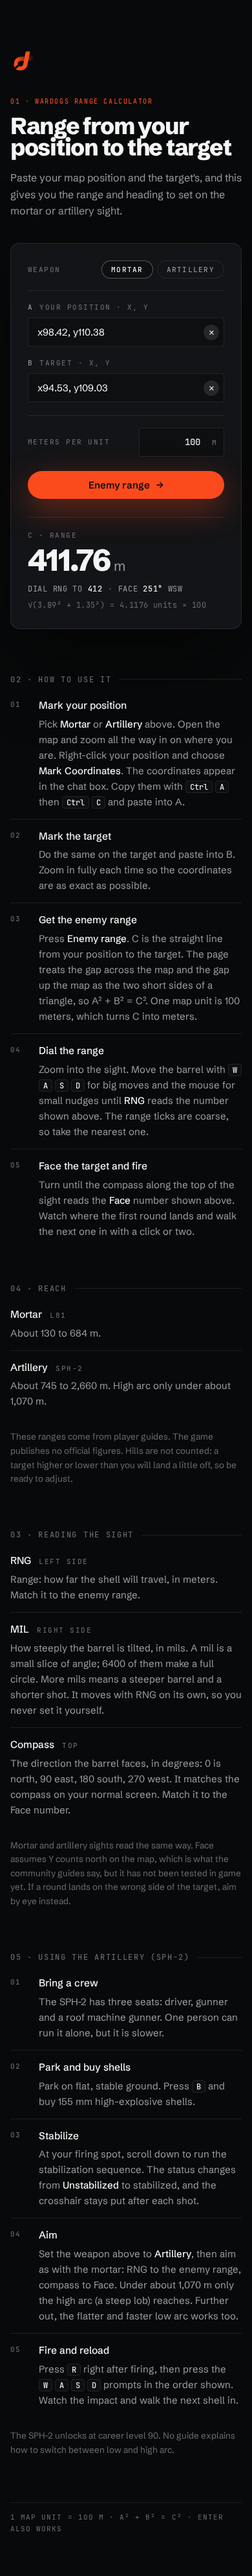
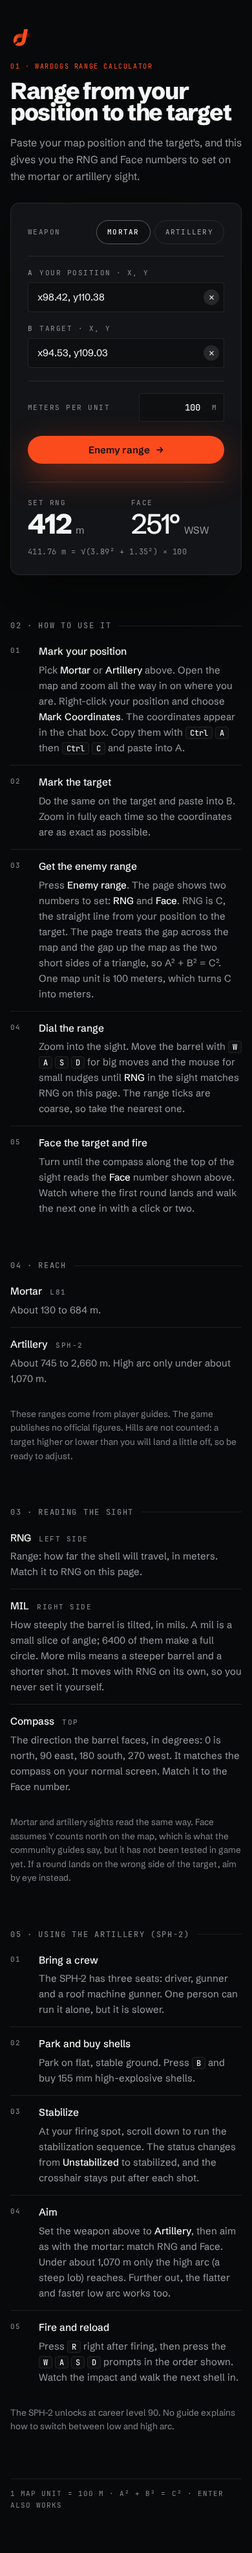
Readability pass: big RNG/Face readouts, contrast, PC layout
Result leads with the two numbers you set in game. Faint text passes
4.5:1. Title left / calculator right on wide screens so the result
stays on screen. Errors name the box and are linked for screen readers.

Claude-Session: https://claude.ai/code/session_01EgT5FX5KAE4dFoWsGCwVm8

diff --git a/index.html b/index.html
@@ -17,7 +17,9 @@
 
 :root {
   --jd-ink: #08090a; --jd-ink-2: #0e0f11; --jd-ink-3: #131417;
-  --jd-fg: #f4f5f4; --jd-muted: #9a9da3; --jd-muted-2: #696c72;
+  --jd-fg: #f4f5f4; --jd-muted: #9a9da3;
+  /* Design system says #696c72; lifted here so small text passes 4.5:1 contrast. */
+  --jd-muted-2: #83868c;
   --jd-accent: #fb4b1d; --jd-accent-press: #e23c12; --jd-on-accent: #08090a;
   --jd-line: rgba(255, 255, 255, 0.09);
   --jd-sans: "Schibsted Grotesk", system-ui, -apple-system, "Segoe UI", sans-serif;
@@ -30,18 +32,20 @@
 html, body { margin: 0; background: var(--jd-ink); color: var(--jd-fg); }
 body { font: 400 16px/1.6 var(--jd-sans); -webkit-font-smoothing: antialiased; }
 
-main { max-width: 1040px; margin: 0 auto; padding: clamp(40px, 9vh, 96px) 16px 64px; }
+main { max-width: 1040px; margin: 0 auto; padding: clamp(24px, 5vh, 56px) 16px 64px; }
 .head { max-width: 480px; margin: 0 auto; }
 .guides { display: grid; gap: 56px; margin-top: 72px; }
 .col { display: grid; gap: 56px; align-content: start; }
 @media (min-width: 960px) {
+  .head { max-width: none; display: grid; grid-template-columns: 1fr 1fr; gap: 0 72px; align-items: start; }
+  .intro { padding-top: 12px; }
   .guides { grid-template-columns: 1fr 1fr; gap: 0 72px; margin-top: 96px; }
 }
 
-.mark { display: block; width: 36px; height: 36px; margin-bottom: 40px; }
+.mark { display: block; width: 32px; height: 32px; margin-bottom: 24px; }
 .eyebrow { font: 500 10px/1 var(--jd-mono); letter-spacing: .16em; text-transform: uppercase; color: var(--jd-accent); margin: 0 0 16px; }
 h1 { font-weight: 800; font-size: clamp(36px, 9vw, 48px); line-height: .92; letter-spacing: -.035em; margin: 0 0 18px; text-wrap: balance; }
-.lede { color: var(--jd-muted); font-size: 16px; margin: 0 0 36px; max-width: 40ch; }
+.lede { color: var(--jd-muted); font-size: 16px; margin: 0 0 28px; max-width: 40ch; }
 
 .card { background: var(--jd-ink-3); border: 1px solid var(--jd-line); border-radius: 14px; padding: 26px; box-shadow: var(--jd-shadow-card); }
 
@@ -49,7 +53,7 @@ h1 { font-weight: 800; font-size: clamp(36px, 9vw, 48px); line-height: .92; lett
 .weapon { display: flex; align-items: center; justify-content: space-between; gap: 12px; padding-bottom: 18px; margin-bottom: 20px; border-bottom: 1px solid var(--jd-line); }
 .weapon .lbl { margin: 0; }
 .chips { display: flex; gap: 6px; }
-.chip { font: 500 10.5px/1 var(--jd-mono); letter-spacing: .12em; text-transform: uppercase; color: var(--jd-muted); background: transparent; border: 1px solid var(--jd-line); border-radius: 999px; padding: 8px 14px; cursor: pointer; transition: color .2s, border-color .2s, background .2s; }
+.chip { font: 500 10.5px/1 var(--jd-mono); letter-spacing: .12em; text-transform: uppercase; color: var(--jd-muted); background: transparent; border: 1px solid var(--jd-line); border-radius: 999px; padding: 12px 16px; cursor: pointer; transition: color .2s, border-color .2s, background .2s; }
 .chip:hover { color: var(--jd-fg); }
 .chip[aria-pressed="true"] { color: var(--jd-fg); background: var(--jd-ink-2); border-color: rgba(255, 255, 255, .3); }
 .chip:focus-visible { outline: 2px solid var(--jd-fg); outline-offset: 2px; }
@@ -76,6 +80,12 @@ input:focus, input[aria-invalid="true"] { border-color: var(--jd-accent); }
 
 #result:empty { display: none; }
 #result { margin-top: 26px; padding-top: 22px; border-top: 1px solid var(--jd-line); }
+.readouts { display: grid; grid-template-columns: 1fr 1fr; gap: 16px; margin: 4px 0 14px; }
+.readout .lbl { margin-bottom: 8px; }
+.big { font-size: clamp(40px, 11vw, 56px); line-height: .92; letter-spacing: -.035em; color: var(--jd-fg); }
+.big.rng { font-weight: 800; }
+.big.face { font-weight: 500; }
+.big small { font-size: .36em; font-weight: 400; letter-spacing: .02em; color: var(--jd-muted); margin-left: 6px; }
 .value { font-weight: 800; font-size: clamp(44px, 12vw, 60px); line-height: .92; letter-spacing: -.035em; margin: 12px 0 14px; }
 .value span { font-weight: 400; color: var(--jd-muted); font-size: .45em; letter-spacing: 0; margin-left: 6px; }
 .working { font: 400 11.5px/1.6 var(--jd-mono); letter-spacing: .04em; color: var(--jd-muted-2); }
@@ -121,10 +131,12 @@ footer { margin-top: 56px; padding-top: 14px; border-top: 1px solid var(--jd-lin
 <body>
 <main>
   <div class="head">
+  <div class="intro">
[1 lines of base64/hex data omitted]
   <p class="eyebrow in">01 · Wardogs range calculator</p>
   <h1 class="in">Range from your position to the target</h1>
-  <p class="lede in">Paste your map position and the target&#39;s, and this gives you the range and heading to set on the mortar or artillery sight.</p>
+  <p class="lede in">Paste your map position and the target&#39;s, and this gives you the RNG and Face numbers to set on the mortar or artillery sight.</p>
+  </div>
 
   <div class="card in">
     <div class="weapon">
@@ -159,8 +171,8 @@ footer { margin-top: 56px; padding-top: 14px; border-top: 1px solid var(--jd-lin
     <ol class="steps">
       <li><span class="num">01</span><div><h3>Mark your position</h3><p>Pick <strong>Mortar</strong> or <strong>Artillery</strong> above. Open the map and zoom all the way in on where you are. Right-click your position and choose <strong>Mark Coordinates</strong>. The coordinates appear in the chat box. Copy them with <kbd>Ctrl</kbd> <kbd>A</kbd> then <kbd>Ctrl</kbd> <kbd>C</kbd> and paste into A.</p></div></li>
       <li><span class="num">02</span><div><h3>Mark the target</h3><p>Do the same on the target and paste into B. Zoom in fully each time so the coordinates are as exact as possible.</p></div></li>
-      <li><span class="num">03</span><div><h3>Get the enemy range</h3><p>Press <strong>Enemy range</strong>. C is the straight line from your position to the target. The page treats the gap across the map and the gap up the map as the two short sides of a triangle, so A² + B² = C². One map unit is 100 meters, which turns C into meters.</p></div></li>
-      <li><span class="num">04</span><div><h3>Dial the range</h3><p>Zoom into the sight. Move the barrel with <kbd>W</kbd> <kbd>A</kbd> <kbd>S</kbd> <kbd>D</kbd> for big moves and the mouse for small nudges until <strong>RNG</strong> reads the number shown above. The range ticks are coarse, so take the nearest one.</p></div></li>
+      <li><span class="num">03</span><div><h3>Get the enemy range</h3><p>Press <strong>Enemy range</strong>. The page shows two numbers to set: <strong>RNG</strong> and <strong>Face</strong>. RNG is C, the straight line from your position to the target. The page treats the gap across the map and the gap up the map as the two short sides of a triangle, so A² + B² = C². One map unit is 100 meters, which turns C into meters.</p></div></li>
+      <li><span class="num">04</span><div><h3>Dial the range</h3><p>Zoom into the sight. Move the barrel with <kbd>W</kbd> <kbd>A</kbd> <kbd>S</kbd> <kbd>D</kbd> for big moves and the mouse for small nudges until <strong>RNG</strong> in the sight matches RNG on this page. The range ticks are coarse, so take the nearest one.</p></div></li>
       <li><span class="num">05</span><div><h3>Face the target and fire</h3><p>Turn until the compass along the top of the sight reads the <strong>Face</strong> number shown above. Watch where the first round lands and walk the next one in with a click or two.</p></div></li>
     </ol>
   </section>
@@ -179,7 +191,7 @@ footer { margin-top: 56px; padding-top: 14px; border-top: 1px solid var(--jd-lin
   <section class="guide in">
     <h2>03 · Reading the sight</h2>
     <dl class="terms">
-      <div><dt>RNG <span>Left side</span></dt><dd>Range: how far the shell will travel, in meters. Match it to the enemy range.</dd></div>
+      <div><dt>RNG <span>Left side</span></dt><dd>Range: how far the shell will travel, in meters. Match it to RNG on this page.</dd></div>
       <div><dt>MIL <span>Right side</span></dt><dd>How steeply the barrel is tilted, in mils. A mil is a small slice of angle; 6400 of them make a full circle. More mils means a steeper barrel and a shorter shot. It moves with RNG on its own, so you never set it yourself.</dd></div>
       <div><dt>Compass <span>Top</span></dt><dd>The direction the barrel faces, in degrees: 0 is north, 90 east, 180 south, 270 west. It matches the compass on your normal screen. Match it to the Face number.</dd></div>
     </dl>
@@ -192,7 +204,7 @@ footer { margin-top: 56px; padding-top: 14px; border-top: 1px solid var(--jd-lin
       <li><span class="num">01</span><div><h3>Bring a crew</h3><p>The SPH-2 has three seats: driver, gunner and a roof machine gunner. One person can run it alone, but it is slower.</p></div></li>
       <li><span class="num">02</span><div><h3>Park and buy shells</h3><p>Park on flat, stable ground. Press <kbd>B</kbd> and buy 155 mm high-explosive shells.</p></div></li>
       <li><span class="num">03</span><div><h3>Stabilize</h3><p>At your firing spot, scroll down to run the stabilization sequence. The status changes from <strong>Unstabilized</strong> to stabilized, and the crosshair stays put after each shot.</p></div></li>
-      <li><span class="num">04</span><div><h3>Aim</h3><p>Set the weapon above to <strong>Artillery</strong>, then aim as with the mortar: RNG to the enemy range, compass to Face. Under about 1,070 m only the high arc (a steep lob) reaches. Further out, the flatter and faster low arc works too.</p></div></li>
+      <li><span class="num">04</span><div><h3>Aim</h3><p>Set the weapon above to <strong>Artillery</strong>, then aim as with the mortar: match RNG and Face. Under about 1,070 m only the high arc (a steep lob) reaches. Further out, the flatter and faster low arc works too.</p></div></li>
       <li><span class="num">05</span><div><h3>Fire and reload</h3><p>Press <kbd>R</kbd> right after firing, then press the <kbd>W</kbd> <kbd>A</kbd> <kbd>S</kbd> <kbd>D</kbd> prompts in the order shown. Watch the impact and walk the next shell in.</p></div></li>
     </ol>
     <p class="note">The SPH-2 unlocks at career level 90. No guide explains how to switch between low and high arc.</p>
@@ -217,9 +229,9 @@ function parsePoint(text) {
 // so the distance between the points is the long side C.
 function calculate(textA, textB, scaleText, weapon = "mortar") {
   const a = parsePoint(textA);
-  if (!a) return { error: "Point A needs exactly two numbers, like x98.42, y110.38", field: "a" };
+  if (!a) return { error: "Your position needs an x and a y, like x98.42, y110.38", field: "a" };
   const b = parsePoint(textB);
-  if (!b) return { error: "Point B needs exactly two numbers, like x94.53, y109.03", field: "b" };
+  if (!b) return { error: "Target needs an x and a y, like x94.53, y109.03", field: "b" };
   const scale = Number(String(scaleText).trim());
   if (String(scaleText).trim() === "" || !(scale > 0)) {
     return { error: "Meters per unit needs a number above 0, like 100", field: "scale" };
@@ -272,26 +284,25 @@ const inputs = ["a", "b", "scale"].map($);
 function show() {
   const r = calculate($("a").value, $("b").value, $("scale").value, weapon);
   const out = $("result");
-  inputs.forEach((el) => el.removeAttribute("aria-invalid"));
+  inputs.forEach((el) => { el.removeAttribute("aria-invalid"); el.removeAttribute("aria-describedby"); });
   out.classList.remove("show");
   void out.offsetWidth; // restart the rise animation
   out.classList.add("show");
   if (r.error) {
     $(r.field).setAttribute("aria-invalid", "true");
-    out.innerHTML = '<div class="error"></div>';
+    $(r.field).setAttribute("aria-describedby", "err");
+    out.innerHTML = '<div class="error" id="err"></div>';
     out.firstChild.textContent = r.error;
     return;
   }
-  const [num] = formatMeters(r.meters).split(" ");
   out.innerHTML =
-    '<div class="lbl">C · Range</div>' +
-    '<div class="value">' + num + '<span>m</span></div>' +
-    '<div class="dial">Dial RNG to <b>' + dialRange(r.meters) + '</b><span class="sep">·</span>Face <b>' +
-    Math.round(r.bearing) % 360 + '°</b> ' + compassPoint(r.bearing) +
-    (r.arc && !r.outOfRange ? '<span class="sep">·</span><b>' + r.arc + '</b>' : '') + '</div>' +
+    '<div class="readouts">' +
+      '<div class="readout"><div class="lbl">Set RNG</div><div class="big rng">' + dialRange(r.meters) + '<small>m</small></div></div>' +
+      '<div class="readout"><div class="lbl">Face</div><div class="big face">' + Math.round(r.bearing) % 360 + '°<small>' + compassPoint(r.bearing) + '</small></div></div>' +
+    '</div>' +
+    (r.arc && !r.outOfRange ? '<div class="dial"><b>' + r.arc + '</b></div>' : '') +
     (r.rangeNote ? '<div class="warn"></div>' : '') +
-    '<div class="working">√(' + round(r.dx) + '² + ' + round(r.dy) + '²) = ' +
-    round(r.distance) + ' units × ' + round(r.scale) + '</div>';
+    '<div class="working">' + formatMeters(r.meters) + ' = √(' + round(r.dx) + '² + ' + round(r.dy) + '²) × ' + round(r.scale) + '</div>';
   if (r.rangeNote) out.querySelector(".warn").textContent = r.rangeNote;
 }
 

diff --git a/tests/test_calculator.py b/tests/test_calculator.py
@@ -48,7 +48,11 @@ def test_negative_numbers_are_understood():
 def test_bad_input_gives_error_message(text):
     result = run_js(f'calculate({json.dumps(text)}, "x1, y1", "100")')
     assert "error" in result
-    assert "A" in result["error"]
+    assert result["error"].startswith("Your position")
+
+
+def test_target_error_names_the_target():
+    assert run_js('calculate("1, 1", "x5", "100")')["error"].startswith("Target")
 
 
 def test_classic_3_4_5_triangle():

diff --git a/AGENT_LOG.md b/AGENT_LOG.md
@@ -51,3 +51,8 @@ Compare it with DEVLOG.md: where the two logs disagree is where you learn the mo
 ## 2026-10-05: Humanizer pass on page wording
 - Did: Applied blader/humanizer rules (not installed on the account; read from GitHub) to all page text. 9 edits: plainer intro, removed "tell me" and "I couldn't find" (my own voice leaking into a page other players read), dropped decorative bold, replaced an unsourced claim ("the closer you mark, the closer the shell lands") with a factual one, and made the untested compass caveat tell the reader what to do.
 - Unsure about: Step 03 uses A and B for both the points and the triangle's sides (A² + B² = C²). It's the user's formula, but could confuse readers. Mentioned to the user.
+
+## 2026-10-05: Readability pass (accessibility-review, design-critique, ux-copy)
+- Did: Result now shows two big readouts, SET RNG (412) and FACE (251° WSW); the 411.76 m distance moved into the small working line. Faint grey lifted from #696c72 to #83868c so all small text passes 4.5:1 (was 3.5–3.8). On screens 960 px and wider the title sits left and the calculator right, so the result ends at ~605 px on a 1440×900 screen (was 898). Errors use the box names ("Your position…", "Target…") and are linked to their box for screen readers. Weapon buttons 29 → 37 px tall. Terms unified: RNG for range, Face for direction.
+- Decided and why: Face uses weight 500, not 800: the design system allows one bold value per card, and Face is still untested in game. The grey change departs from the jadan-design token (#696c72) on this page only; the design system itself is unchanged.
+- Unsure about: Whether to update the design system's --jd-muted-2 everywhere. Asked the user.
